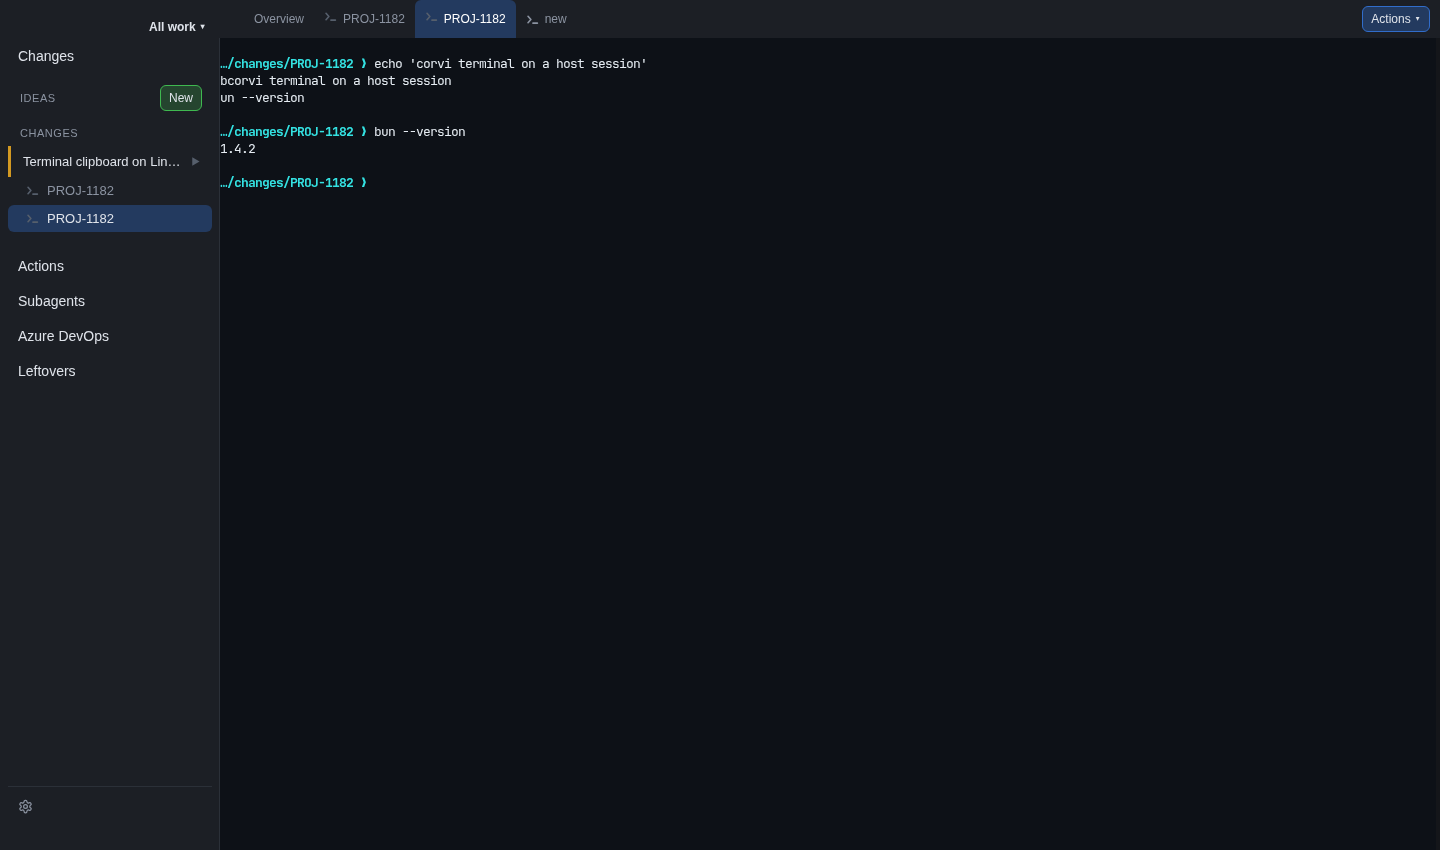
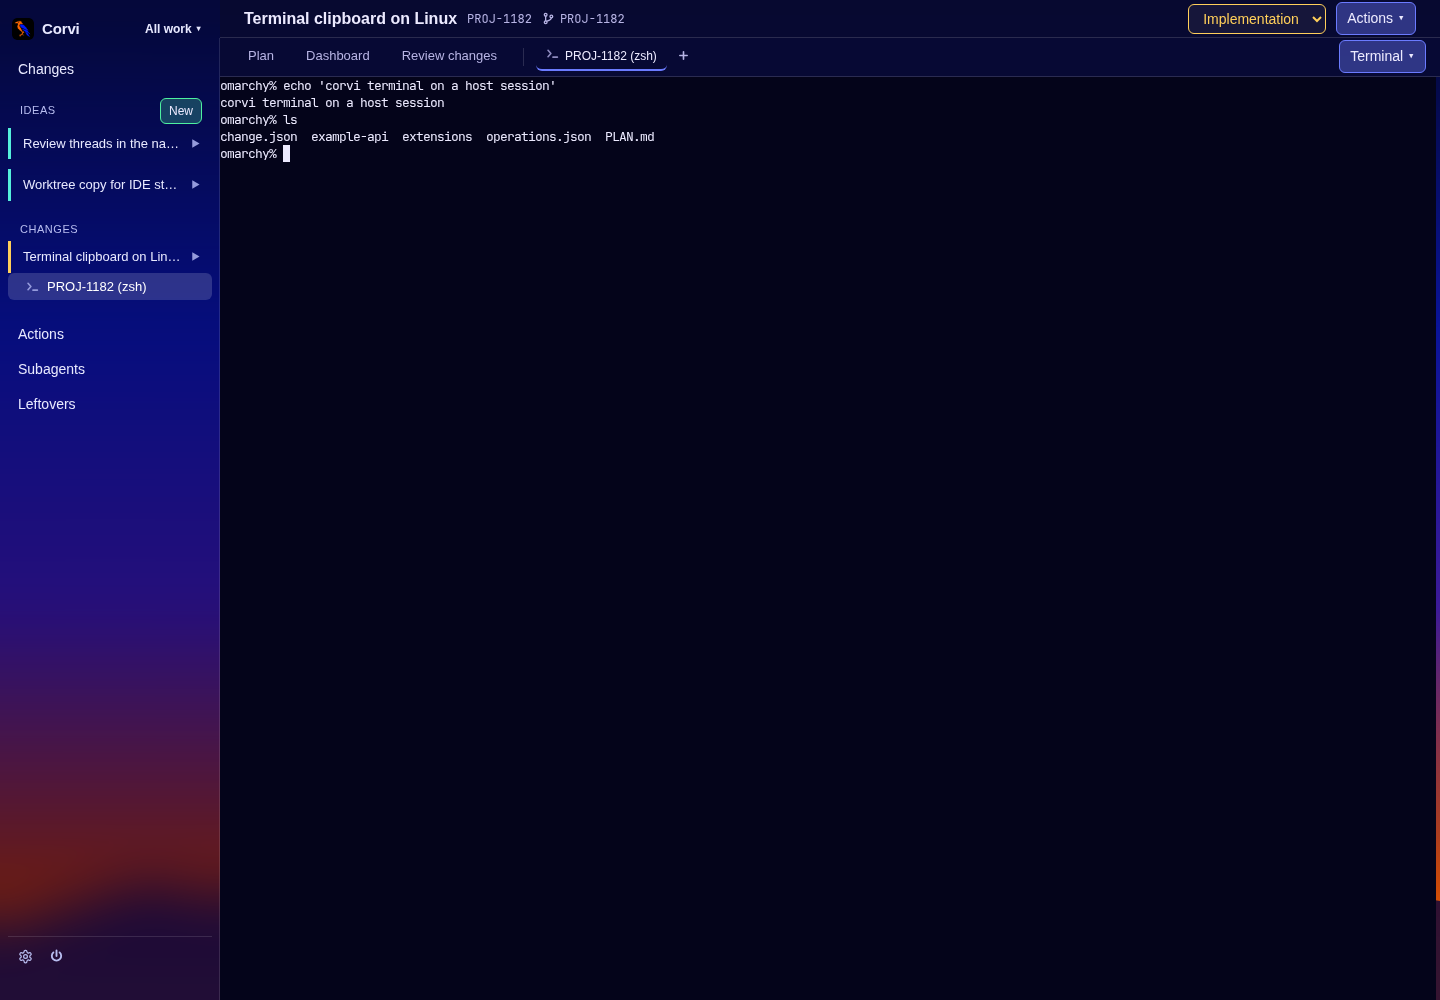
Document the themes and the one tab row, and retake the manual's pictures
The manual describes what shipped: the brand row and the title row, the one
tab row holding the change's views and terminal windows, the four themes and
where the choice is kept, the opaque terminal chrome, the dashboard filling the
window, and the terminal page's own "Terminal" menu. Themes get a section and a
picture of the Appearance section; configuration says the theme is not a config
key.

`bun run shot` now also captures a change's dashboard in every theme, its
terminal page and the Appearance section, preferring a started change when the
instance has one and skipping the change captures when it has none. The manual's
three pictures were retaken from an isolated instance.

Changed region(s): [[0.0, 0.0, 1.0, 0.9788]]

diff --git a/scripts/shot.ts b/scripts/shot.ts
@@ -170,6 +170,60 @@ try {
   await page.locator(".template-choice", { hasText: "Reviewer" }).click();
   await shot("13-subagents-picker");
   await page.locator("dialog.template-picker").getByRole("button", { name: "Cancel" }).click();
+
+  // A change's own page and the looks it can wear. The change is the instance's own (these
+  // captures are meant for an isolated one, seeded with a change); without one they are skipped
+  // rather than making data on somebody's real instance.
+  const changes = (await fetch(`${url}/api/changes`).then((response) => response.json())) as {
+    id: string;
+    state?: string;
+  }[];
+  // A change that has started, when there is one: its dashboard has the state cards beside the
+  // documents, which is what the picture is for.
+  const change = (changes.find((record) => record.state !== "Ideation") ?? changes[0])?.id;
+  if (change === undefined) {
+    console.log("no change on this instance: the change-page, theme and terminal shots were skipped");
+  } else {
+    const changeUrl = (page: string): string => `${url}/changes/${encodeURIComponent(change)}/${page}`;
+    // Dusk is the default, and the one the manual's pictures are taken in.
+    await page.context().addCookies([{ name: "corvi:theme", value: "dusk", url }]);
+    await page.goto(changeUrl("dashboard"), { waitUntil: "domcontentloaded" });
+    await page.waitForSelector(".change-bar .change-name");
+    await page.waitForTimeout(500);
+    await shot("14-change-dashboard");
+
+    // Every theme, on the same page: the four looks the choice offers, in Settings' order.
+    for (const theme of ["ultramarine", "raven", "spaces"]) {
+      await page.context().addCookies([{ name: "corvi:theme", value: theme, url }]);
+      await page.goto(changeUrl("dashboard"), { waitUntil: "domcontentloaded" });
+      await page.waitForSelector(".change-bar .change-name");
+      await page.waitForTimeout(500);
+      await shot(`15-theme-${theme}`);
+    }
+
+    // Back to Dusk for the terminal: the page's chrome and an attached shell.
+    await page.context().addCookies([{ name: "corvi:theme", value: "dusk", url }]);
+    await page.goto(changeUrl("terminals"), { waitUntil: "domcontentloaded" });
+    await page.waitForSelector(".terminal-screen .xterm-screen");
+    await page.waitForTimeout(800);
+    // Two harmless commands in the change's own checkout, so the capture shows a screen with a
+    // shell in it rather than an empty one. Nothing outside the checkout is touched.
+    await page.locator(".terminal-screen").click();
+    await page.keyboard.type("echo 'corvi terminal on a host session'");
+    await page.keyboard.press("Enter");
+    await page.waitForTimeout(300);
+    await page.keyboard.type("ls");
+    await page.keyboard.press("Enter");
+    await page.waitForTimeout(400);
+    await shot("18-change-terminal");
+
+    // Where the theme is chosen: the Appearance section of Settings.
+    await page.goto(`${url}/settings`, { waitUntil: "domcontentloaded" });
+    await page.getByRole("button", { name: "Appearance" }).click();
+    await page.waitForSelector(".theme-choices");
+    await page.waitForTimeout(300);
+    await shot("19-settings-appearance");
+  }
 } finally {
   if (errors.length) console.log("console errors:\n" + errors.join("\n"));
   await browser.close();

diff --git a/docs/manual/interface.md b/docs/manual/interface.md
@@ -4,8 +4,10 @@
 
 ## Navigation
 
-The left column contains the workspace switcher, change overview, ideas, active changes and their
-terminal windows. At the bottom sit Settings — a gear — the power control (see [Power down when
+At the top of the left column is the brand row: the raven, **Corvi**, and the workspace switcher.
+Below it are the change overview, ideas, active changes and their terminal windows. A waiting
+agent shows as the change's dot in the list and on its terminal tab, not as an entry of its own.
+At the bottom sit Settings — a gear — the power control (see [Power down when
 done](terminals.md#power-down-when-done)), the terminal host's restart icon, and the update icon:
 yellow when a new version of the app is waiting, grey when there is none, and absent when this run
 cannot update itself (see
@@ -22,8 +24,9 @@ title you typed; opening it restores its draft. Only one destination is highligh
 window, a change view, or the draft being edited.
 
 Selecting a change opens its **Plan** — the first of its views. **Plan**, **Dashboard** and
-**Review changes** are views of that change; terminal windows can also be opened directly from
-the navigation column. Each view has a URL, so deep links, reload, and browser Back work.
+**Review changes** are views of that change; its terminal windows are tabs in the same row and
+can also be opened directly from the navigation column. Each view has a URL, so deep links,
+reload, and browser Back work.
 Coming back to a change's overview — from a terminal window, or by opening the change again —
 lands on the view you last had open there, within the running app: restarting opens the plan
 again. Leaving Settings with unsaved edits asks first however you go — clicking or Back — see
@@ -44,8 +47,12 @@ data is what you see until it recovers (see
 
 The settings page edits the config file directly; [configuration](configuration.md) documents the
 keys and the scopes. Its scope bar holds **Global** and one tab per workspace, and the sections
-below the tabs depend on the scope. Three of them are immediate actions rather than settings:
+below the tabs depend on the scope. Four sections behave differently from the settings around
+them:
 
+- **Appearance** (global scope): the four themes, applied as soon as one is picked. The choice
+  belongs to this device, not to the config file, so this section has no **Save**; see
+  [Themes](#themes).
 - **Remote access** (global scope): **Enable remote access** and the listener's **Port** ride the
 draft and are written by **Save**. The Tailscale block publishes the listener to the tailnet —
 **Publish to Tailscale** / **Stop publishing** — shows the published URL, and says why it cannot
@@ -65,18 +72,54 @@ again. A remote workspace has no other sections, because its settings live on th
 hosts it. Unticking the box switches it back to local; **Remove this context** deletes it. See
 [workspaces](configuration.md#workspaces).
 
+## Themes
+
+![The four themes in Settings → Appearance](../images/themes.png)
+
+Corvi ships four dark themes, chosen in **Settings → Appearance**:
+
+- **Dusk** (the default): the dusk sky behind frosted panels.
+- **Ultramarine**: a solid ultramarine navigation column, a deep-navy page and translucent blue
+  cards.
+- **Raven Black**: pure black, with colour as solid blocks — the selection ultramarine, what wants
+  you orange, and a change's state a filled chip.
+- **Spaces**: every change lights the page with its own colour pair, derived from its id. Ideas and
+  the changes overview keep Corvi's own pair — ultramarine and orange.
+
+The choice is per device rather than part of `config.json`: it is kept in a browser cookie, so it
+applies to this browser on this machine and survives a restart. Picking a theme applies it at once;
+another tab that is already open keeps the theme it loaded with until it is reloaded.
+
+A theme is a set of the design tokens in `apps/web/src/app-root/styles.css`, and that file is the
+only place a colour is written down. All four themes are dark (`color-scheme: dark`). A terminal's
+well stays opaque in every theme, and the menus and find bar that float over it are opaque too, so
+no backdrop blur runs behind a terminal. In Dusk the sky moves with the pointer, by at most 12 by 8
+pixels; reduced motion — including switching that preference on mid-session — stops it. In Spaces,
+switching changes glides from one pair to the next, while arriving at a change from a cold link
+paints its colour instead of animating it.
+
 ## Change views
 
-A change's name, state, and actions remain accessible above its content. The **Plan** tab is
+Every change page begins with a **title row**: the change's name, id and branch on the left, and
+its state selector and **Actions** menu on the right — a finished change shows how it ended and,
+when cancelled, **Reopen** instead of that menu. Renaming is the menu's **Rename change**
+entry, which opens a field in place of the name. Under the title row is the change's one **tab
+row**: **Plan**, **Dashboard**, **Review changes** and any other tab an extension contributes, a
+separator, then the change's terminal windows with their status marks and **+** for a new window.
+In the desktop app the title row is the window's title bar — the part you drag the window by — and
+the tab row under it is not part of that drag area. The **Plan** tab is
 `PLAN.md` as Markdown source filling the tab — the markup stays visible, in a monospace face,
 colored as an editor colors it. Tab indents in the editor (Escape, then Tab, moves focus on
 instead). The text follows the file when it changes outside Corvi — an agent or an IDE editing
 it — and when edits are in flight it asks before either version goes away. How far into the plan
 you were is remembered as you move around, within the running app. The dashboard places notes
-documents in the left column and status cards in the right; narrow windows stack the
-documents first. Status cards load independently, so one slow integration does not block the
-whole page. The dashboard's **Subagents** card lists the change's subagent sessions, attached or
-not: each row says whether its window is live and how busy it is, and carries the one action it
+documents in the left column and status cards in the right; narrow windows stack the documents
+first. Its columns run to the bottom of the window and the last card in each grows into the
+leftover height, so the page does not end in an empty band under the cards; a wrapped tab row, a
+notice or an error banner takes its height from the cards rather than pushing them past the
+window. Status cards load independently, so one slow integration does not block the whole page.
+The dashboard's **Subagents** card lists the change's subagent sessions, attached or not: each row
+says whether its window is live and how busy it is, and carries the one action it
 needs — **Open** a closed one, **Close** a live one, **Continue** an interrupted turn. Open brings
 the recreated window to the front and takes you to the terminal page, where the subagent is an
 ordinary window of the change. A change with no subagents has no card. Returning to a view can
@@ -91,9 +134,10 @@ was lost is held (the plan and notes editors become read-only), and recovery doe
 it: resuming the edit, or an explicit save, follows the normal save policy. The change's phase
 selector and the action menus are held back until it recovers.
 
-The terminal page's row offers an **Actions** menu: the actions that fit the window you are on —
-a prompt for the agent window you are looking at, a command for a plain shell — and then the
-terminal cheat sheet. Each action is a file on disk; the **Actions** and **Subagents** pages list
+On the terminal page the title row's **Actions** menu is the change's, and the right end of the tab
+row carries **Terminal ▾**: the actions that fit the window you are on — a prompt for the agent
+window you are looking at, a command for a plain shell — and then the terminal cheat sheet. Each
+action is a file on disk; the **Actions** and **Subagents** pages list
 these files and say where they live, with a **Repositories** block per active change: pick the
 change, see what its checkouts carry, and create, edit or delete those files like any other. New
 starts from a template — blank, or a copy of a built-in with its text previewed.
@@ -105,9 +149,11 @@ is a separate choice, not inferred from those tools.
 ## Desktop and browser
 
 The desktop application uses the same page as a browser, with native window controls,
-notifications, dialogs, and external-link handling. Its header includes a draggable area;
-interactive controls must remain clickable. On macOS the traffic lights occupy reserved space.
-Renaming a change belongs in that change's action row, not in the window's general title area.
+notifications, dialogs, and external-link handling. The change's title row is its draggable area,
+and the top of the navigation column — the brand row — is dragged the same way. Interactive
+controls in both stay clickable. On macOS the traffic lights occupy reserved space at the top of
+the column, and the brand row begins to their right. Renaming a change belongs in that change's
+title row, not in the window's general title area.
 
 The context-menu setting controls the browser/desktop right-click menu, including the terminal's
 own menu and a window tab's menu. See [terminals](terminals.md) for keyboard and clipboard
@@ -129,6 +175,10 @@ bun run app:sandbox 4090 --open
 ```
 
 Screenshots use `CORVI_URL` (default `http://127.0.0.1:4000`) and are written under `shots/`.
+Besides the wizard, settings and file pages, the harness captures a change's dashboard in each of
+the four themes, its terminal page and the Appearance section; those need a change on the instance
+(seed an isolated one), and are skipped when there is none. It drives the page in a browser, so it
+does not capture the native macOS title bar — that needs the app on macOS.
 Chromium is the primary engine because Electron uses it. Optional WebKit checks require a
 working Playwright WebKit installation.
 

diff --git a/docs/manual/terminals.md b/docs/manual/terminals.md
@@ -55,27 +55,29 @@ agent conversation. Those are separate planned capabilities.
 A change in a remote workspace has terminals too, with one difference: its host session — the
 shell, the CLIs, and any agent — runs on the **remote** machine. The page attaches to it through
 the local client's gateway, and the scrollback the server keeps is the remote server's. The
-window strip, the status channel, and attaching all work the same way wherever the session runs.
+window tabs, the status channel, and attaching all work the same way wherever the session runs.
 
 ## Windows and navigation
 
-Windows appear under their change in the navigation column and in the strip above the terminal. A
-default label is where the shell is, named relative to the change — `corvi`,
+Windows appear under their change in the navigation column and as tabs in the change's one tab
+row, after its views. A default label is where the shell is, named relative to the change —
+`corvi`,
 `corvi/packages/terminals` — with the process in its foreground in brackets: `corvi (gradle)` while
 a build runs, `corvi (zsh)` at a prompt. The place is the directory the shell announces as you
 `cd`, so it stays put while a command takes the terminal's own title over. A shell that announces
 no directory is named by its terminal title instead, and then by the window's directory. An
 action's label or an agent's own session name wins over both, and a name you gave wins over
-everything. There is no session manager underneath — a window
-*is* a host session, and the strip switches between them. When more windows exist than fit, the
-strip wraps to a second row instead of showing a horizontal scrollbar. The strip is capped at two
-rows and scrolls once there are more; the **Actions** menu sits vertically centred in the strip.
+everything. There is no session manager underneath — a window *is* a host session, and the tabs
+switch between them. When more windows exist than fit, they wrap
+to a second row instead of showing a horizontal scrollbar; they are capped at two rows and
+scroll once there are more. At the right end of the row is **Terminal ▾**, the menu of actions
+that fit the window you are on and the terminal cheat sheet.
 
-The new-window control, **Cmd-T** on macOS or **Ctrl-Alt-T** on Linux, creates another host session
-in the current window's directory. It becomes the current window. Work that opens a window in the
-background — an action run, a subagent — does not: it leaves the terminal you are looking at
+The **+** at the end of the row — **Cmd-T** on macOS, **Ctrl-Alt-T** on Linux — creates another
+host session in the current window's directory. It becomes the current window. Work that opens a
+window in the background — an action run, a subagent — does not: it leaves the terminal you are looking at
 selected, so an idle shell is never taken over by something you did not open. Explicitly opening a
-terminal — a strip tab, a notification, or a subagent entry — selects it. In a normal Chrome tab,
+terminal — a window tab, a notification, or a subagent entry — selects it. In a normal Chrome tab,
 Cmd-T remains a browser shortcut; the desktop app can deliver it to Corvi. Keyboard focus stays
 with the terminal while switching windows.
 
@@ -84,7 +86,7 @@ right-click menu holds Copy, Paste, Select all, Clear, Find and Open link. A dot
 that arrived while you were looking elsewhere.
 
 A window's name can be changed from its tab: right-click the tab and pick **Rename**. The name
-replaces the default label everywhere the label is shown — the strip, the navigation column and
+replaces the default label everywhere the label is shown — the tab row, the navigation column and
 notifications — and it wins over the name an action or an agent reports. A split window still says
 how many panes it holds, after the name. The tab's tooltip still says where the window is and what
 runs in it. An empty field restores the default. The name belongs to the window rather than to the
@@ -115,7 +117,7 @@ not a pane; a crashed agent's status is cleared when its host session ends.
 | session name | free text | the session's own name, once the agent has one. |
 | message | free text | the first sentence (at most 180 characters) of the last answer. |
 
-Corvi's window strip reads those facts (as the `@agent_*` window options the presenter declares),
+Corvi's window tabs read those facts (as the `@agent_*` window options the presenter declares),
 through the CLI/HTTP store first and the host's OSC parse as the fallback: the session name
 becomes the window's label, the status colours the icon and decides whether a notification is
 owed (the edge from working to waiting, except for a subagent — see [Attention
@@ -176,7 +178,7 @@ A transition from working to waiting can notify you when you are not actively lo
 window. Selecting the same change is not enough to suppress it if another view/window is active.
 A subagent never notifies: its settled turn is waiting for its orchestrator (`corvi subagent
 await`, the dashboard's subagent card), not for you, so it raises no attention edge — the window
-strip and the subagent card still show its state. Notification sound is configurable. With no connected page,
+tab and the subagent card still show its state. Notification sound is configurable. With no connected page,
 there is no server-side OS notifier.
 Several waiting windows can notify separately; each uses a stable window identity.
 

diff --git a/docs/manual/changes.md b/docs/manual/changes.md
@@ -132,9 +132,14 @@ copy failure does not make worktree creation fail.
 
 ## Dashboard and review
 
+A change's page is its title row — name, id, branch, state and actions — over one tab row holding
+its views and terminal windows; [the interface](interface.md#change-views) describes both.
+
 The dashboard shows the notes beside independently loaded integration status cards: local
 worktrees, Jira, GitHub pull requests/checks, and Azure pipeline runs where enabled.
-Narrow windows stack documents before status cards.
+Narrow windows stack documents before status cards. The columns reach the bottom of the window and
+the last card in each grows into what is left, so a wide window does not end in an empty band under
+the cards.
 
 A card that owns something editable carries a pencil in its header, the same way the Local
 changes card's repository editor does. The Jira and GitHub issues cards re-point their change at

diff --git a/docs/manual/configuration.md b/docs/manual/configuration.md
@@ -59,6 +59,9 @@ at `/settings` edits the same file. This page describes current configuration na
 
 ## Settings and scopes
 
+The theme is not a setting in this file: it is a per-device browser preference, chosen in
+**Settings → Appearance** (see [themes](interface.md#themes)).
+
 Every setting exists at two scopes: at the top level of the file (the global level) and inside a
 workspace's `settings`, where it overrides the global one key by key. The settings are:
 
